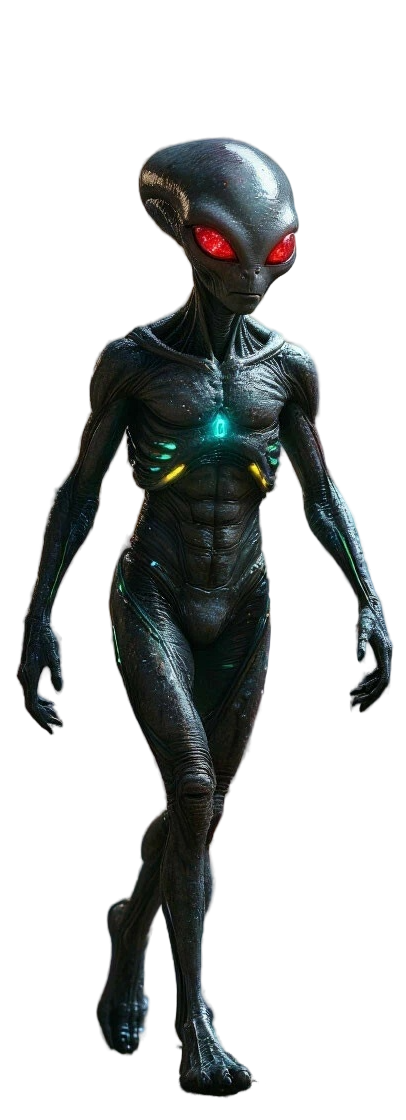
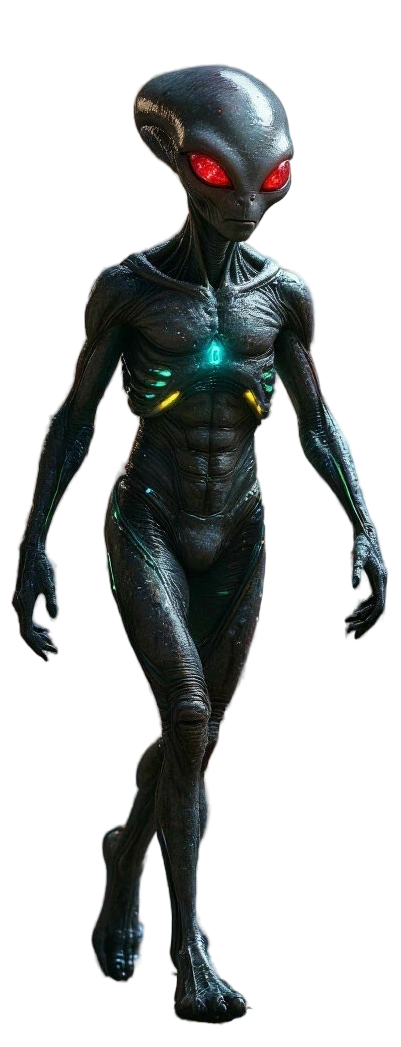
feat: add screen switching

Changed region(s): [[0.0299, 0.0611, 0.9875, 0.978]]

diff --git a/script/locationsPopup.js b/script/locationsPopup.js
@@ -1,11 +1,12 @@
 import { locations } from './data/location.js';
+import { character } from './state.js';
 
 export default function locationsPopup() {
   const list = document.getElementById('locations-list');
   locations.forEach((loc) => {
     const li = `
       <li class="list__item locations__item" id=${loc.id}>
-        <img class="list__img" src="./assets/locations/${loc.id}.webp" alt="" />
+        <img class="list__img locations__img" src="./assets/locations/${loc.id}.webp" alt="" />
       </li>
     `;
     list.insertAdjacentHTML('beforeend', li);
@@ -14,7 +15,12 @@ export default function locationsPopup() {
 
   list.addEventListener('click', function (e) {
     if (e.target.closest('.list__item')) {
-      console.log(e.target.closest('.list__item').id);
+      character.location = e.target.closest('.list__item').id;
+      const listItems = list.querySelectorAll('.list__item');
+      console.log(listItems);
+      listItems.forEach((item) => item.classList.add('list__item_fade'));
+      e.target.closest('.list__item').classList.remove('list__item_fade');
+      console.log(e.target.closest('.list__item'));
     }
   });
 }

diff --git a/index.html b/index.html
@@ -65,9 +65,12 @@
         <img src="./assets/close.svg" alt="Close popup" />
       </button>
       <div class="popup__tab choose-character">
-        <h2 class="popup__title choose-character__title">
-          Choose Your Character?
-        </h2>
+        <div>
+          <h2 class="popup__title choose-character__title">
+            Choose Your Character
+          </h2>
+          <button class="btn_next">Or Get Random Character</button>
+        </div>
         <ul class="list choose-character__list" id="choose-character-list"></ul>
         <button class="btn btn_next" id="choose-character-btn">Next</button>
       </div>
@@ -75,7 +78,7 @@
         <div class="create__content">
           <form class="create__form">
             <label for="character" class="popup__title">
-              Create your character
+              Give Name To Your character
             </label>
             <input
               class="create__input"

diff --git a/script/choseCharacter.js b/script/choseCharacter.js
@@ -1,7 +1,9 @@
+import { character } from './state.js';
+
 export default function chooseCharacter() {
   const list = document.getElementById('choose-character-list');
 
-  Array.from({ length: 15 }, (_, i) => i + 1).forEach((_, i) => {
+  Array.from({ length: 10 }, (_, i) => i + 1).forEach((_, i) => {
     const li = `
         <li class="list__item list__item_vertical choose-character__item" id=${i + 1}>
           <img class="list__img" src="./assets/aliens/${i + 1}.png" alt="Alien character" />
@@ -13,7 +15,7 @@ export default function chooseCharacter() {
 
   list.addEventListener('click', function (e) {
     if (e.target.closest('.list__item')) {
-      console.log(e.target.closest('.list__item').id);
+      character.id = e.target.closest('.list__item').id;
     }
   });
 }

diff --git a/css/base.css b/css/base.css
@@ -18,6 +18,7 @@ body {
   font-family: 'Orbitron', sans-serif;
   font-size: 18px;
   font-style: normal;
+  background: url(../assets/body-bg.png);
   position: relative;
 }
 
@@ -33,4 +34,22 @@ body {
 
 .transparent {
   opacity: 0;
+}
+
+.btn_next {
+  display: flex;
+  justify-content: center;
+  align-items: center;
+  color: #fff;
+  text-shadow: 0 0 5px #000;
+  background: #3c0559;
+  font-family: 'Press Start 2P', system-ui;
+  font-size: 13px;
+  padding: 12px 18px;
+  border-radius: 10px;
+  cursor: pointer;
+  transition: 0.5s;
+  position: relative;
+  overflow: hidden;
+  margin: 20px auto;
 }

diff --git a/script/createCharacter.js b/script/createCharacter.js
@@ -1,4 +1,4 @@
-import { state } from './state';
+import { character } from './state';
 
 export function createCharacter() {
   const form = document.querySelector('.create__form');
@@ -6,10 +6,10 @@ export function createCharacter() {
   form.addEventListener('submit', function (e) {
     e.preventDefault();
 
-    const character = form.querySelector('#character');
-    if (character) {
-      state.character = character.value;
-      console.log(state);
+    const name = form.querySelector('#character').value;
+    if (name) {
+      character.name = name;
+      console.log(character);
     }
   });
 }

diff --git a/css/popup.css b/css/popup.css
@@ -48,6 +48,7 @@
 .popup__tab {
   width: 100%;
   height: fit-content;
+  min-height: 100vh;
   padding: 60px 20px 20px;
   display: none;
   opacity: 0;
@@ -73,7 +74,9 @@
 
 .popup__title {
   color: #fff;
-  text-shadow: 0 0 0 #000;
+  background: -webkit-linear-gradient(#19f6c7, #c90677);
+  -webkit-background-clip: text;
+  -webkit-text-fill-color: transparent;
   font-family: 'Press Start 2P', system-ui;
   font-size: 20px;
   text-align: center;

diff --git a/css/list.css b/css/list.css
@@ -13,6 +13,10 @@
   overflow: hidden;
 }
 
+.list__item_fade {
+  filter: blur(2px);
+}
+
 .list__item_vertical {
   flex: 0 0 150px;
   height: 200px;
@@ -44,7 +48,7 @@
     100%/250% 250%;
 }
 
-.list__item:hover {
+.list__item_vertical:hover {
   clip-path: inset(0 0 0 var(--_f) round var(--r));
   --_t: translateX(calc(-1 * var(--_f))) rotateY(calc(-1 * var(--_a)))
     animation: rotation 6s ease-in infinite forwards;

diff --git a/css/create.css b/css/create.css
@@ -43,9 +43,10 @@
 
 .create__content {
   padding: 30px 20px;
-  background: #fff;
+  max-width: 600px;
   border-radius: 10px;
   position: relative;
+  margin: 0 auto;
 }
 
 .create__close:hover {

diff --git a/script/state.js b/script/state.js
@@ -1,7 +1,9 @@
-export const state = {
-  character: '',
+export const character = {
+  id: '',
+  name: '',
+  location: '',
 };
 
 export const tab = {
   index: 0,
-}
+};

diff --git a/css/locations.css b/css/locations.css
@@ -39,7 +39,8 @@
 .locations__list {
 }
 
-.locations__item {
+.locations__img:hover {
+  transform: scale(1.5);
 }
 
 .locations__img {
